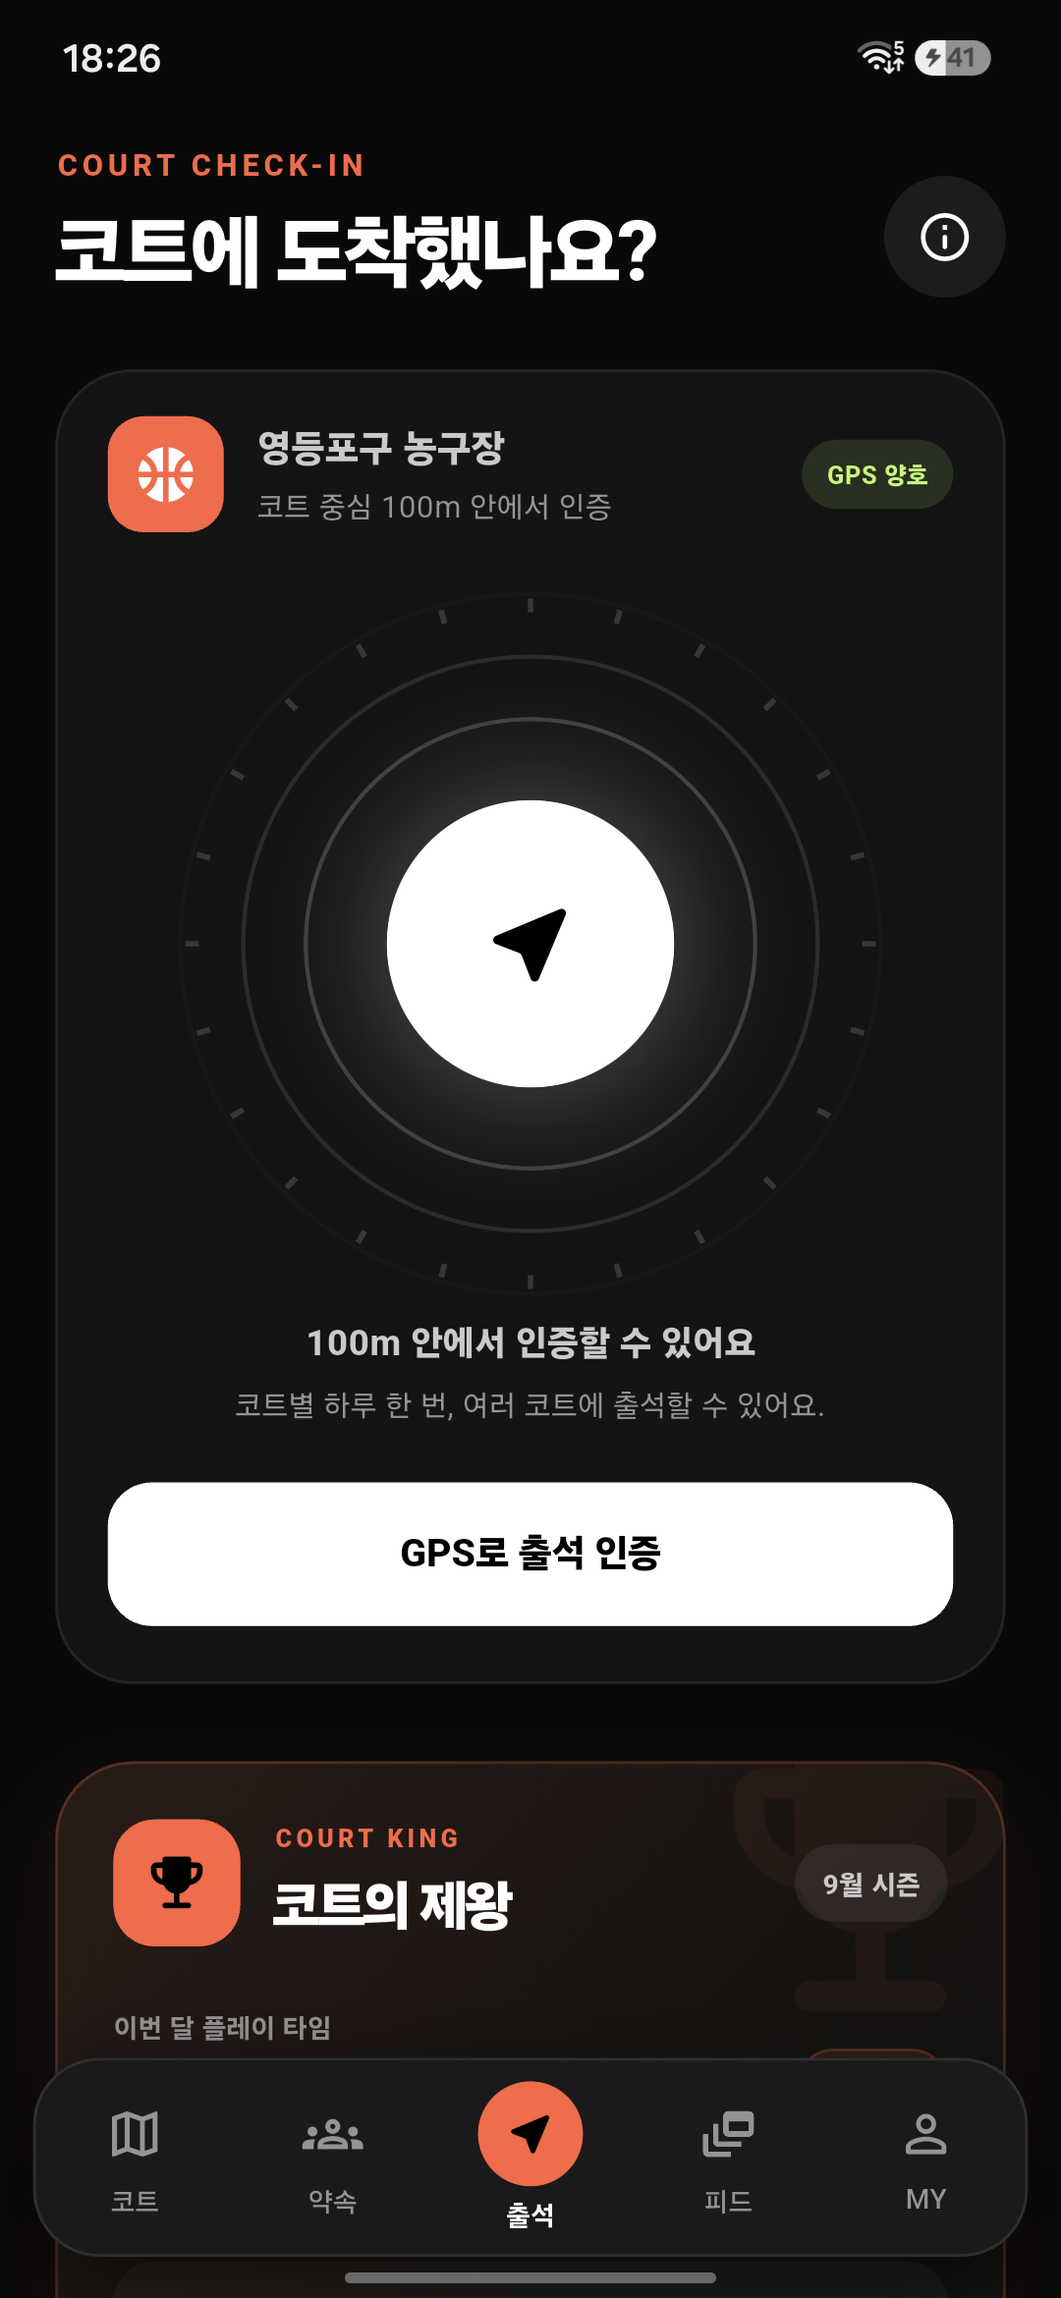
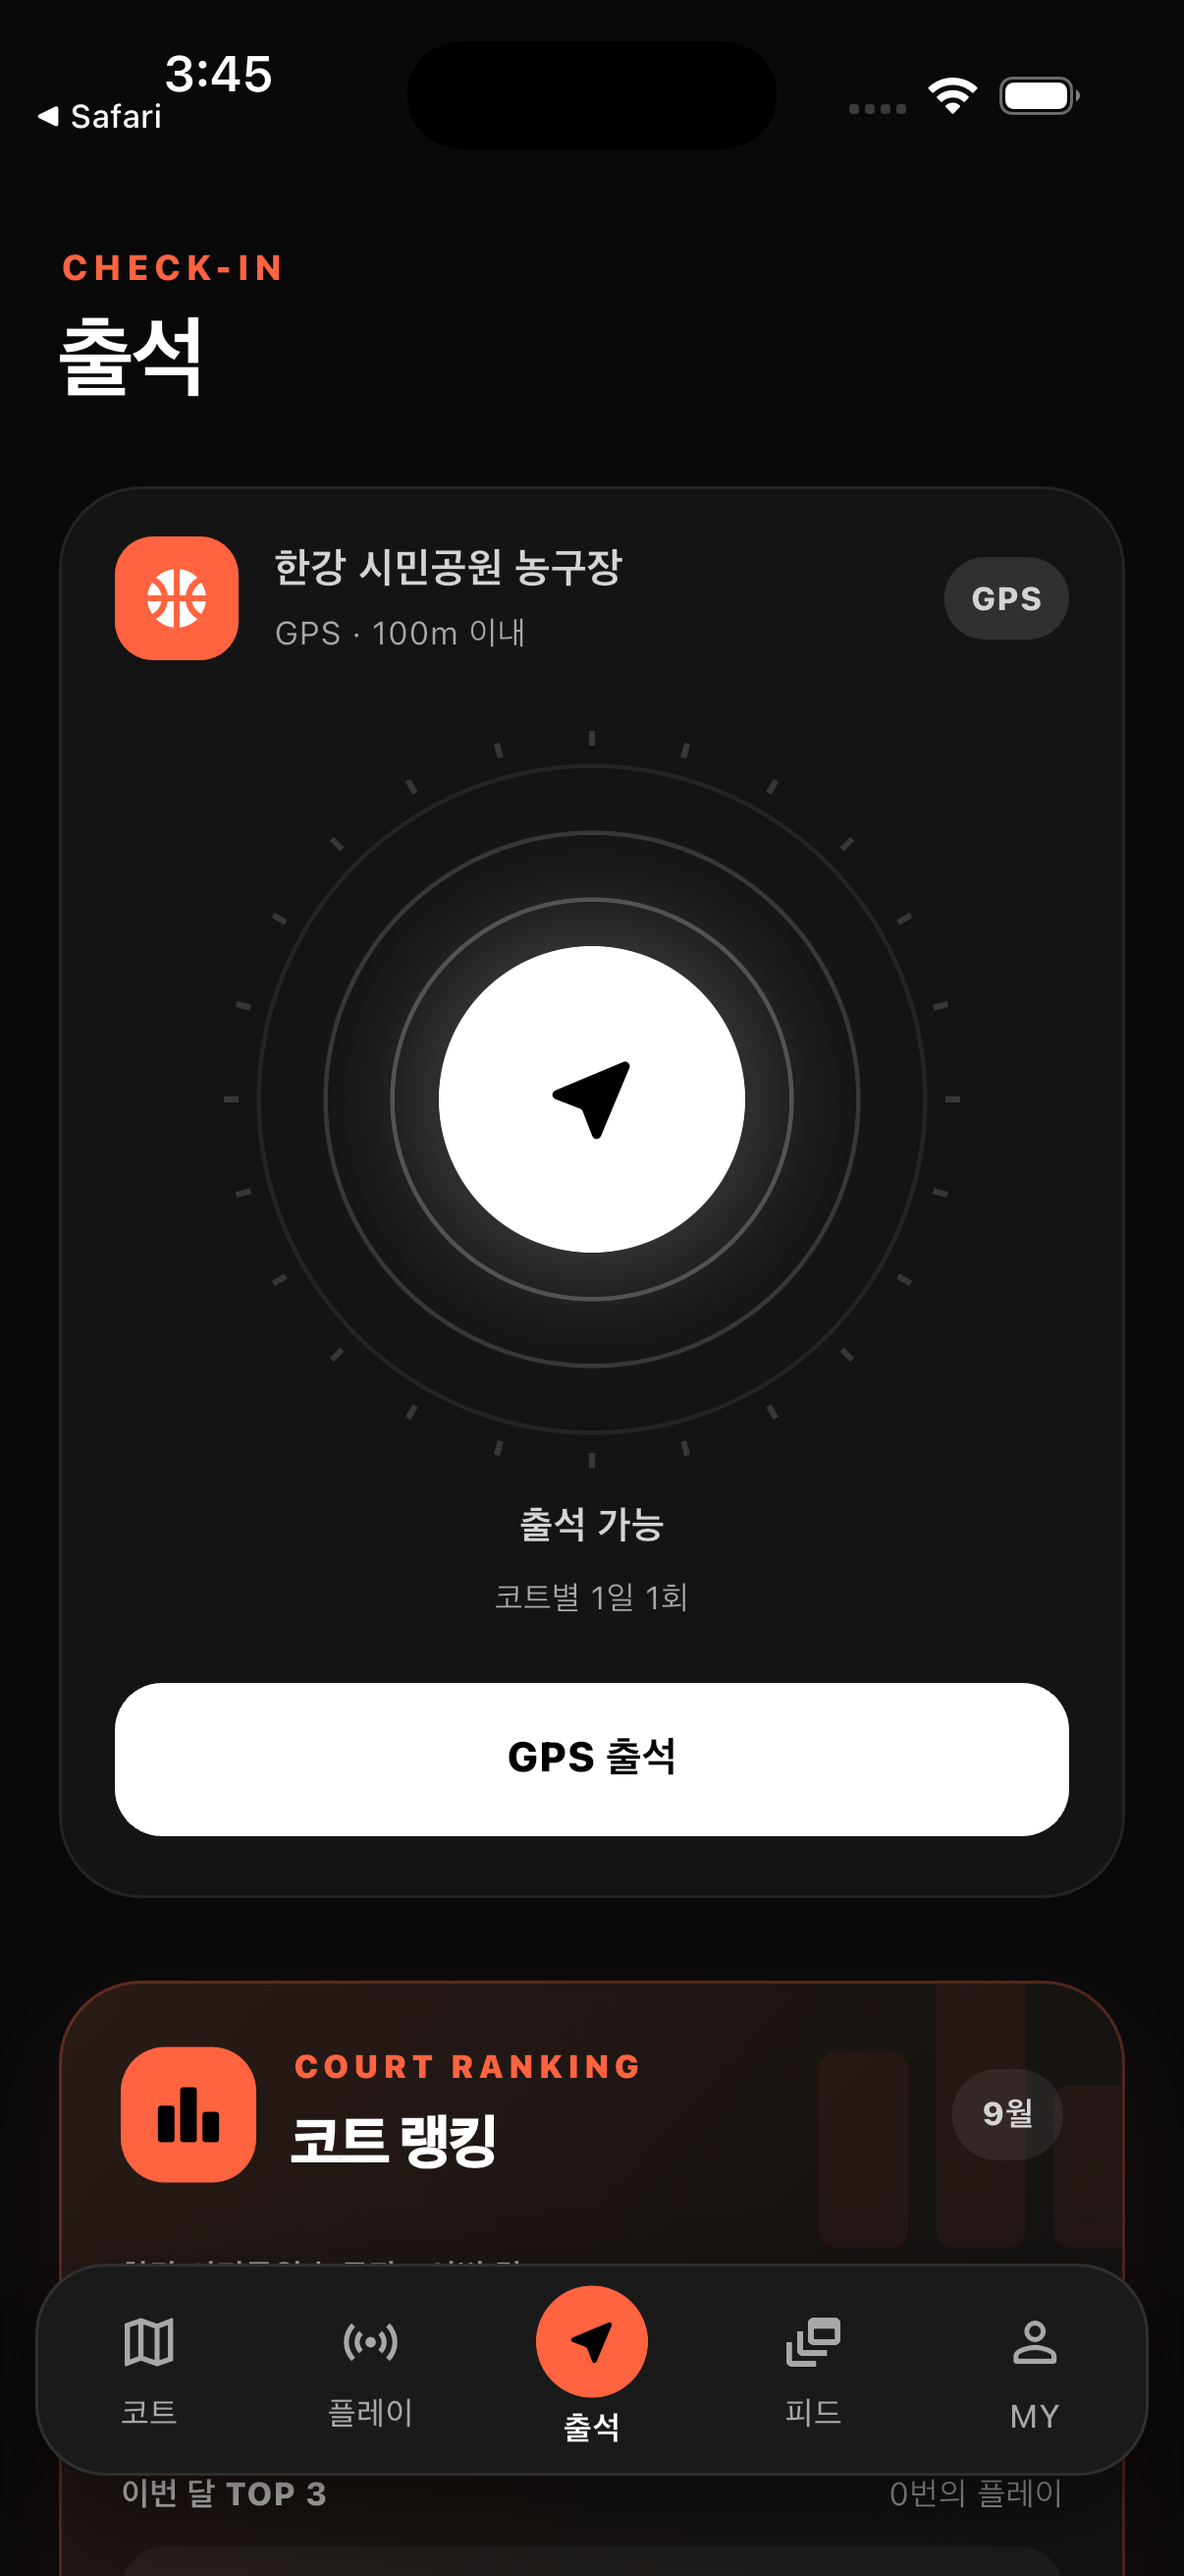
Rename Court King to Court Ranking

diff --git a/Backcourt/lib/screens/checkin_screen.dart b/Backcourt/lib/screens/checkin_screen.dart
@@ -325,7 +325,7 @@ class _CheckinScreenState extends State<CheckinScreen>
                   ),
                 ),
                 const SizedBox(height: 28),
-                _CourtKingCard(
+                _CourtRankingSummaryCard(
                   repository: widget.repository,
                   activeCourt: widget.activeCourt,
                   checkedIn: _checkedIn,
@@ -343,8 +343,8 @@ class _CheckinScreenState extends State<CheckinScreen>
   }
 }
 
-class _CourtKingCard extends StatefulWidget {
-  const _CourtKingCard({
+class _CourtRankingSummaryCard extends StatefulWidget {
+  const _CourtRankingSummaryCard({
     required this.repository,
     required this.activeCourt,
     required this.checkedIn,
@@ -355,10 +355,11 @@ class _CourtKingCard extends StatefulWidget {
   final bool checkedIn;
 
   @override
-  State<_CourtKingCard> createState() => _CourtKingCardState();
+  State<_CourtRankingSummaryCard> createState() =>
+      _CourtRankingSummaryCardState();
 }
 
-class _CourtKingCardState extends State<_CourtKingCard> {
+class _CourtRankingSummaryCardState extends State<_CourtRankingSummaryCard> {
   StreamSubscription<ActivePlaySession?>? _sessionSubscription;
   ActivePlaySession? _activeSession;
   Timer? _ticker;
@@ -372,7 +373,7 @@ class _CourtKingCardState extends State<_CourtKingCard> {
   }
 
   @override
-  void didUpdateWidget(covariant _CourtKingCard oldWidget) {
+  void didUpdateWidget(covariant _CourtRankingSummaryCard oldWidget) {
     super.didUpdateWidget(oldWidget);
     if (oldWidget.repository != widget.repository) _bindSession();
   }
@@ -477,7 +478,7 @@ class _CourtKingCardState extends State<_CourtKingCard> {
           sessionCount: 8,
         ),
       ];
-      return _CourtKingSurface(
+      return _CourtRankingSummarySurface(
         stats: preview,
         activeCourt: widget.activeCourt,
         currentUid: 'preview',
@@ -492,7 +493,7 @@ class _CourtKingCardState extends State<_CourtKingCard> {
 
     return StreamBuilder<List<MonthlyPlayStat>>(
       stream: repository.watchMonthlyPlayRanking(widget.activeCourt),
-      builder: (context, snapshot) => _CourtKingSurface(
+      builder: (context, snapshot) => _CourtRankingSummarySurface(
         stats: snapshot.data ?? const [],
         activeCourt: widget.activeCourt,
         currentUid: repository.currentUid,
@@ -509,8 +510,8 @@ class _CourtKingCardState extends State<_CourtKingCard> {
   }
 }
 
-class _CourtKingSurface extends StatelessWidget {
-  const _CourtKingSurface({
+class _CourtRankingSummarySurface extends StatelessWidget {
+  const _CourtRankingSummarySurface({
     required this.stats,
     required this.activeCourt,
     required this.currentUid,
@@ -551,7 +552,7 @@ class _CourtKingSurface extends StatelessWidget {
     final month = DateTime.now().month;
 
     return Container(
-      key: const ValueKey('court-king-card'),
+      key: const ValueKey('court-ranking-summary-card'),
       decoration: BoxDecoration(
         borderRadius: BorderRadius.circular(28),
         gradient: const LinearGradient(
@@ -575,7 +576,7 @@ class _CourtKingSurface extends StatelessWidget {
             right: -18,
             top: -26,
             child: Icon(
-              Icons.emoji_events_rounded,
+              Icons.leaderboard_rounded,
               size: 132,
               color: AppColors.accent.withValues(alpha: .055),
             ),
@@ -595,7 +596,7 @@ class _CourtKingSurface extends StatelessWidget {
                         borderRadius: BorderRadius.circular(15),
                       ),
                       child: const Icon(
-                        Icons.emoji_events_rounded,
+                        Icons.leaderboard_rounded,
                         color: Colors.black,
                         size: 25,
                       ),
@@ -606,7 +607,7 @@ class _CourtKingSurface extends StatelessWidget {
                         crossAxisAlignment: CrossAxisAlignment.start,
                         children: [
                           Text(
-                            'COURT KING',
+                            'COURT RANKING',
                             style: TextStyle(
                               color: AppColors.accent,
                               fontSize: 11,
@@ -616,7 +617,7 @@ class _CourtKingSurface extends StatelessWidget {
                           ),
                           SizedBox(height: 3),
                           Text(
-                            '코트의 제왕',
+                            '코트 랭킹',
                             style: TextStyle(
                               color: Colors.white,
                               fontSize: 20,
@@ -637,7 +638,7 @@ class _CourtKingSurface extends StatelessWidget {
                         borderRadius: BorderRadius.circular(99),
                       ),
                       child: Text(
-                        '$month월 시즌',
+                        '$month월',
                         style: const TextStyle(
                           color: AppColors.soft,
                           fontSize: 11,
@@ -692,7 +693,11 @@ class _CourtKingSurface extends StatelessWidget {
                         ),
                       ),
                       child: Text(
-                        myRank == 0 ? '랭킹  -' : '랭킹  #$myRank',
+                        myRank == 0
+                            ? '이번 달  -'
+                            : myRank == 1
+                            ? 'COURT #1'
+                            : '이번 달  $myRank위',
                         style: const TextStyle(
                           color: AppColors.accent,
                           fontSize: 11,
@@ -768,7 +773,7 @@ class _CourtKingSurface extends StatelessWidget {
                 Row(
                   children: [
                     const Text(
-                      '이 코트 TOP 3',
+                      '이번 달 TOP 3',
                       style: TextStyle(
                         color: AppColors.soft,
                         fontSize: 11,
@@ -815,7 +820,7 @@ class _CourtKingSurface extends StatelessWidget {
                         index < math.min(3, stats.length);
                         index++
                       )
-                        _CourtKingRankRow(
+                        _CourtRankingSummaryRow(
                           rank: index + 1,
                           stat: stats[index],
                           me: stats[index].uid == currentUid,
@@ -876,8 +881,8 @@ class _CourtKingSurface extends StatelessWidget {
   }
 }
 
-class _CourtKingRankRow extends StatelessWidget {
-  const _CourtKingRankRow({
+class _CourtRankingSummaryRow extends StatelessWidget {
+  const _CourtRankingSummaryRow({
     required this.rank,
     required this.stat,
     required this.me,
@@ -903,7 +908,7 @@ class _CourtKingRankRow extends StatelessWidget {
           SizedBox(
             width: 26,
             child: Text(
-              '$rank',
+              rank == 1 ? '#1' : '$rank',
               style: TextStyle(
                 color: rank == 1 ? AppColors.accent : AppColors.muted,
                 fontSize: 11,

diff --git a/Backcourt-Social/app.js b/Backcourt-Social/app.js
@@ -221,16 +221,13 @@ function slide4(ctx) {
   ctx.fillText("GPS 출석 · 플레이 시간 · 월간 랭킹", 72, 480);
 
   roundedFill(ctx, 66, 596, 440, 284, 38, C.ink);
-  label(ctx, "COURT KING", 100, 652);
+  label(ctx, "COURT RANKING", 100, 652);
   ctx.fillStyle = C.white;
   ctx.font = font(900, 52);
-  ctx.fillText("코트의 제왕", 98, 724);
+  ctx.fillText("이번 달 1위", 98, 724);
   ctx.fillStyle = C.orange;
   ctx.font = font(900, 72);
-  ctx.fillText("01", 98, 817);
-  ctx.fillStyle = C.muted;
-  ctx.font = font(800, 24);
-  ctx.fillText("이번 달 랭킹", 192, 811);
+  ctx.fillText("COURT #1", 98, 817);
 
   ctx.save();
   ctx.globalAlpha = .06;
